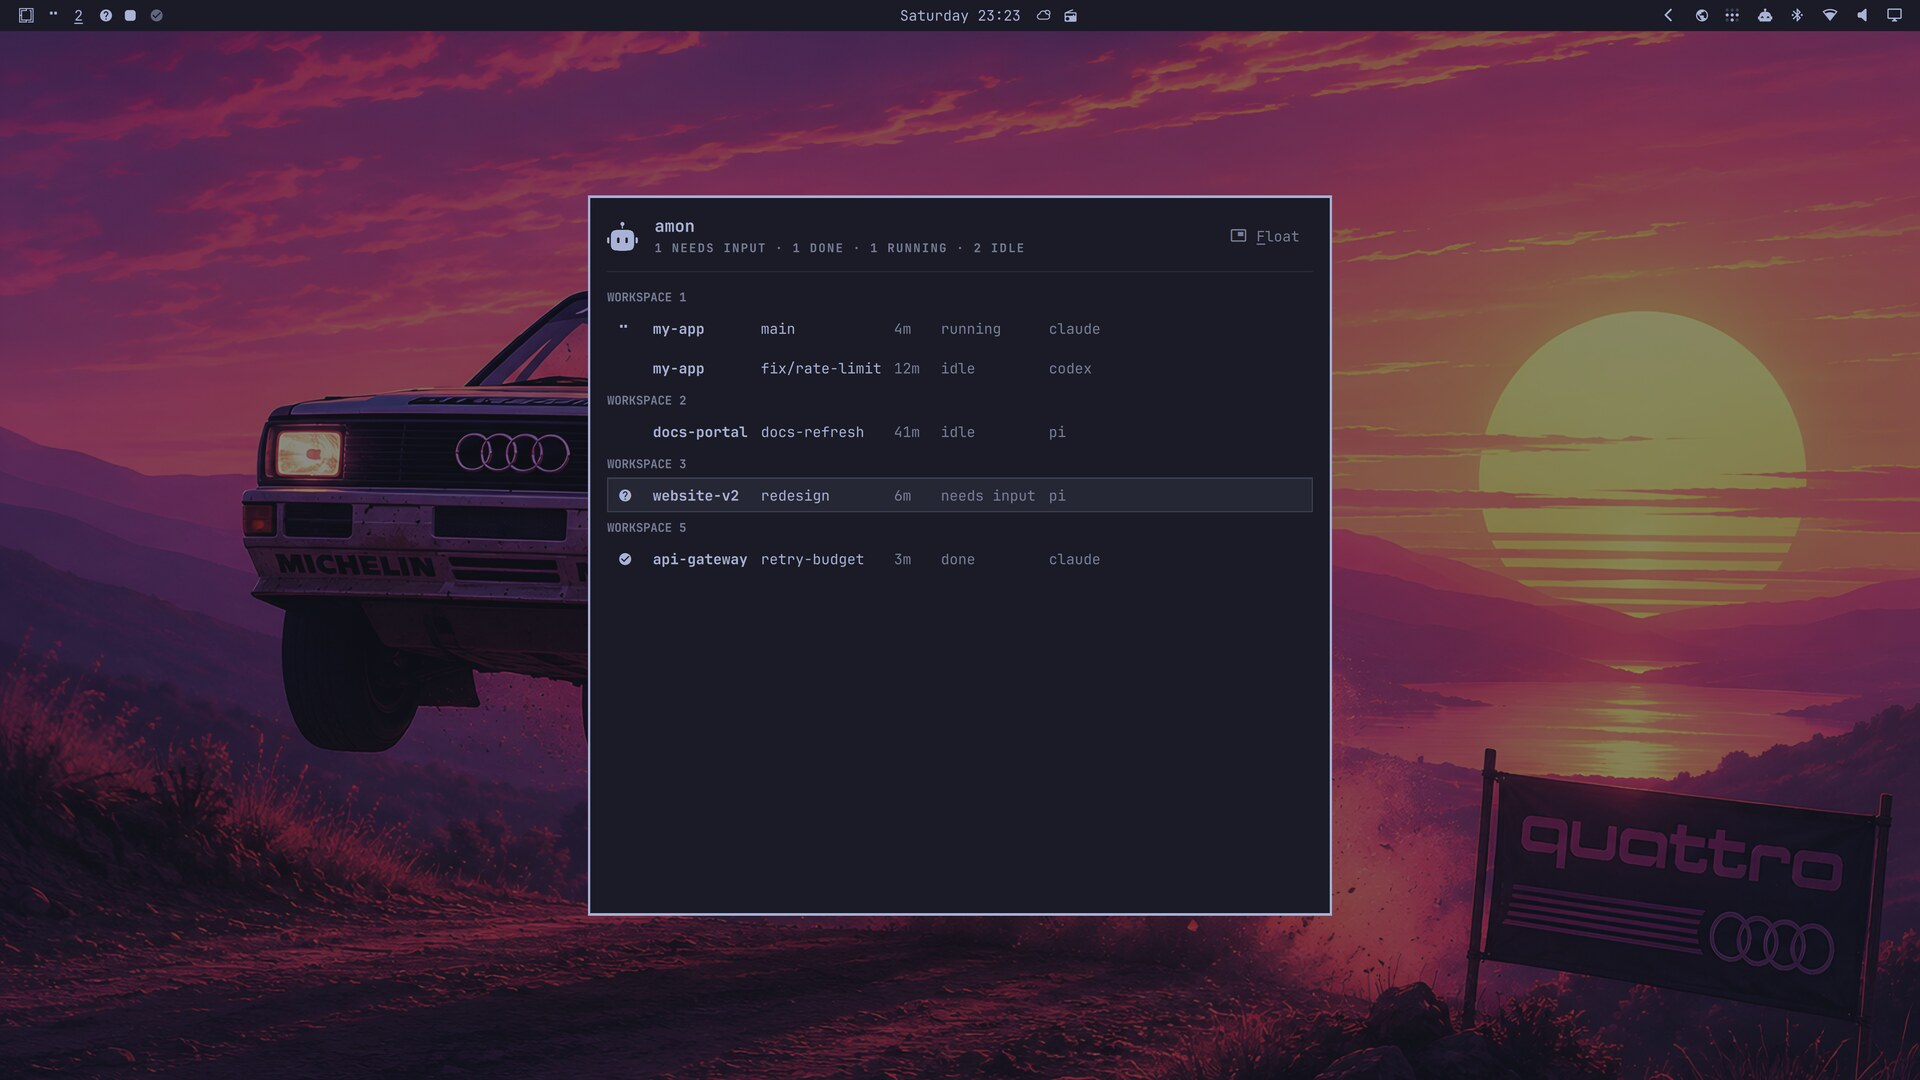
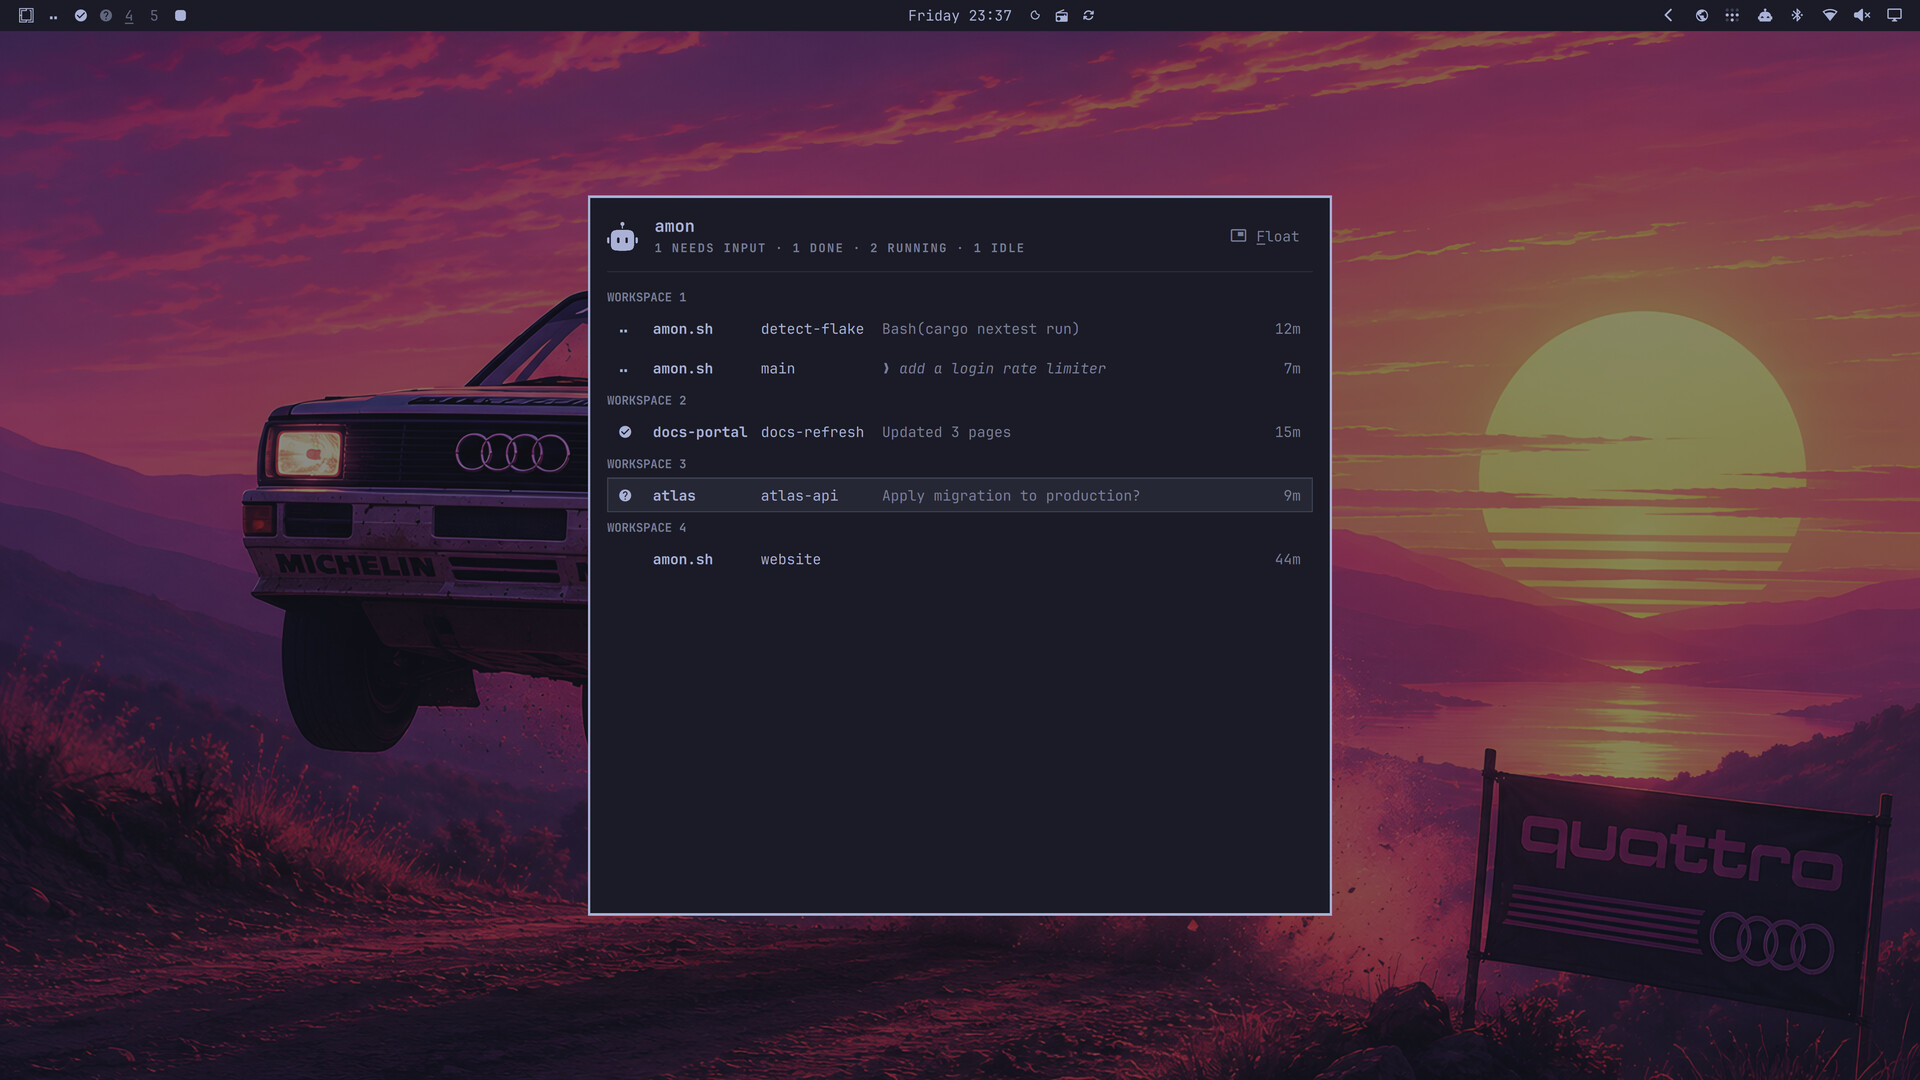
The website shows the activity the panel now surfaces
The panel gained a column for what each agent is doing (ADR-0020/0022), and
the site was still drawing the old one — glyph, project, branch, age, state,
kind. Both surfaces are redrawn to match what ships.

Interactive figures (index.html):
  - The agent-panel mock drops the state-word and kind columns for the elastic
    activity column the real panel now packs: glyph, project, branch, message,
    age. A running row's message carries a band of light that sweeps it (CSS
    background-clip shimmer, ~900ms over 2900ms, honouring prefers-reduced-
    motion); a prompt is your words, so it leans italic behind the harness's
    own marker; a blocked row says what it waits for; idle is blank.
  - The `amon status` snippet gains the same trailing activity column, the two
    surfaces kept in step down to the marker.

Screenshots (website/shots, docs/tokyo-night.jpg):
  - Every themed panel shot and the floating and top-bar shots re-taken against
    a stage set that exercises the new column — a narration mid-run, a prompt,
    a finished agent's last line, a blocker's question. Same five staged agents
    as the mock, so the picture and the page agree.

diff --git a/website/index.html b/website/index.html
@@ -438,14 +438,14 @@
 
   /* One grid shared by every row, so the columns line up down the list the way
      they do in the real panel: the glyph, where the agent is working, the
-     branch, how long, the state in words, and last the kind of agent.
+     branch, what it is doing, and last how long it has been at it.
 
-     Every width is fixed. Each row is its own grid here, so a column that sized
-     itself to its own content would start somewhere different on every line -
-     and a grid whose columns move per row is not one. The leftover falls after
-     the last column rather than pooling in the middle, which is where the real
-     panel leaves it: it packs the columns from the left and stops. */
-  .panel-row{display:grid; grid-template-columns:18px 4rem 7.75rem 2rem 5.5rem 4rem;
+     Every fixed column keeps its width; the activity column takes the slack and
+     elides into it, which is why the age still lands at the edge and a long
+     message costs its own tail rather than a column that identifies the row.
+     Each row is its own grid, so the fixed widths are what keep a column
+     starting in the same place on every line. */
+  .panel-row{display:grid; grid-template-columns:18px 6rem 8.25rem minmax(0,1fr) 2.25rem;
              align-items:center; gap:0 10px; border-radius:6px}
   .panel-row.is-cursor{background:color-mix(in oklab, var(--ink) 7%, transparent)}
 
@@ -495,23 +495,58 @@
      full ink - but not the weight: two bold columns compete and neither leads. */
   .panel-cell.is-branch{color:var(--ink)}
   .panel-cell.is-where,.panel-cell.is-branch,
-  .panel-cell.is-state,.panel-cell.is-kind{overflow:hidden;
-                            text-overflow:ellipsis; white-space:nowrap}
+  .panel-cell.is-activity{overflow:hidden;
+                          text-overflow:ellipsis; white-space:nowrap}
 
+  /* What the agent says it is doing, in the harness's own words - "Reading 5
+     files", "Bash(cargo nextest run)", the opening line of a reply. Never a
+     phrase amon composed: the glyph beside it already carries the state, so a
+     column that said "Working..." would only repeat it. Dim, a little air
+     before it, and it takes the slack the fixed columns leave. */
+  .panel-cell.is-activity{color:var(--muted); padding-left:6px}
+  /* A prompt is your words, not the agent's, so it wears the harness's own
+     marker and leans into italic - the same two cues the real panel draws. */
+  .panel-cell.is-activity.is-prompt{font-style:italic}
+  .panel-cell.is-activity.is-prompt::before{content:"\276F\A0"; font-style:normal}
 
-  /* Narrow: the columns give way from the right, in the order the real panel
-     drops them. The kind of agent goes first - on a machine running one kind it
-     writes the same word down every line, and it is worth its width only while
-     there is width to spare. The state goes next, because the glyph beside the
-     project already carries it. What survives still says where the agent is,
-     which line of work it is on, and how long it has been there. */
-  @media (max-width:640px){
-    .panel-row{grid-template-columns:18px 4rem 7.75rem 2rem 5.5rem}
-    .panel-cell.is-kind{display:none}
+  /* The age sits at the pane's edge, where a column of short right-aligned
+     values reads down as one. */
+  .panel-cell.is-age{text-align:right}
+
+  /* A band of light crossing the message while an agent is working. Nothing
+     moves - only the colour travels, the row's own two inks, dim lifting to
+     full and settling back - which is what keeps it readable rather than
+     distracting. The band sweeps across quickly and then the row rests, the
+     900ms-over-2900ms the real panel animates at. The text is painted through
+     the gradient, so a narrow band of ink rides a dim line. */
+  .panel-cell.is-activity.is-working{
+    color:transparent;
+    /* Three box-widths wide, so the box is always fully painted - a narrow ink
+       peak rides a dim field, and at the ends of the sweep the peak is off the
+       visible window and the whole message rests dim. */
+    background-image:linear-gradient(100deg,
+      var(--muted) 0%, var(--muted) 47%, var(--ink) 50%, var(--muted) 53%, var(--muted) 100%);
+    background-size:300% 100%; background-repeat:no-repeat;
+    -webkit-background-clip:text; background-clip:text;
+    animation:panel-shimmer 2900ms linear infinite}
+  @keyframes panel-shimmer{
+    0%{background-position:0% 0}
+    31%{background-position:100% 0}
+    100%{background-position:100% 0} }
+  /* A shimmer is motion; when motion is unwelcome the message simply rests dim,
+     the same as any settled row. */
+  @media (prefers-reduced-motion: reduce){
+    .panel-cell.is-activity.is-working{animation:none; color:var(--muted);
+      background-image:none; -webkit-background-clip:border-box; background-clip:border-box}
   }
-  @media (max-width:460px){
-    .panel-row{grid-template-columns:18px 4rem minmax(0,1fr) 2rem}
-    .panel-cell.is-state{display:none}
+
+  /* Narrow: the branch gives way first, the one column the real panel drops -
+     every other either identifies the row or, like the message, gives way by
+     shrinking. What survives still says where the agent is and what it is
+     doing. */
+  @media (max-width:600px){
+    .panel-row{grid-template-columns:18px 5rem minmax(0,1fr) 2.25rem}
+    .panel-cell.is-branch{display:none}
   }
 
   /* ---- the install block ------------------------------------------- */
@@ -957,14 +992,16 @@
       The agent panel, replicated. A picture and not a control: nothing here is
       clickable, because nothing here does anything - the cursor follows the
       pointer the way it does in the real panel, and that is the whole of the
-      interaction. The one thing that moves is the spinner, which moves there
-      too.
+      interaction. Two things move, and both move there too: the spinner beside
+      a running agent, and the band of light that crosses what it is doing.
 
-      Three of the four rows say amon.sh, and that is the layout making its
-      point rather than a mistake in the mock: the last of them is an agent in
-      a worktree at ~/.cache/worktrees/site, which belongs to the same
-      repository, and the branch beside it is the only thing telling the three
-      apart.
+      Three of the five rows say amon.sh, and that is the layout making its
+      point rather than a mistake in the mock: they are three checkouts of one
+      repository, and the branch beside each is the only thing telling them
+      apart. The message is what each agent last said it was doing - a running
+      row narrates and its light travels; a row waiting on you says what it is
+      waiting for; the top row is showing the prompt it was given, in your
+      words, so it wears the harness's own marker and leans italic.
     -->
     <figure class="panel">
       <div class="panel-card">
@@ -983,7 +1020,7 @@
           </svg>
           <span class="panel-name">
             <b>amon</b>
-            <span class="panel-counts">1 NEEDS INPUT &middot; 1 DONE &middot; 1 RUNNING &middot; 1 IDLE</span>
+            <span class="panel-counts">1 NEEDS INPUT &middot; 1 DONE &middot; 2 RUNNING &middot; 1 IDLE</span>
           </span>
         </div>
 
@@ -994,35 +1031,39 @@
             <span class="panel-cell is-glyph"><svg class="panel-glyph" viewBox="0 0 24 24" aria-hidden="true"><circle class="panel-dot tl" cx="8.7" cy="9.45" r="2.35" fill="currentColor"/><circle class="panel-dot tr" cx="15.3" cy="9.45" r="2.35" fill="currentColor"/><circle class="panel-dot bl" cx="8.7" cy="14.55" r="2.35" fill="currentColor"/><circle class="panel-dot br" cx="15.3" cy="14.55" r="2.35" fill="currentColor"/></svg></span>
             <span class="panel-cell is-where">amon.sh</span>
             <span class="panel-cell is-branch">main</span>
+            <span class="panel-cell is-activity is-working is-prompt">add a login rate limiter</span>
             <span class="panel-cell is-age">4m</span>
-            <span class="panel-cell is-state">running</span>
-            <span class="panel-cell is-kind">claude</span>
           </div>
           <div class="panel-row">
-            <span class="panel-cell is-glyph"><svg class="panel-glyph" viewBox="0 0 24 24" aria-hidden="true"><use href="#gl-done"/></svg></span>
+            <span class="panel-cell is-glyph"><svg class="panel-glyph" viewBox="0 0 24 24" aria-hidden="true"><circle class="panel-dot tl" cx="8.7" cy="9.45" r="2.35" fill="currentColor"/><circle class="panel-dot tr" cx="15.3" cy="9.45" r="2.35" fill="currentColor"/><circle class="panel-dot bl" cx="8.7" cy="14.55" r="2.35" fill="currentColor"/><circle class="panel-dot br" cx="15.3" cy="14.55" r="2.35" fill="currentColor"/></svg></span>
             <span class="panel-cell is-where">amon.sh</span>
-            <span class="panel-cell is-branch">fix/detect-flake</span>
-            <span class="panel-cell is-age">2m</span>
-            <span class="panel-cell is-state">done</span>
-            <span class="panel-cell is-kind">codex</span>
+            <span class="panel-cell is-branch">detect-flake</span>
+            <span class="panel-cell is-activity is-working">Bash(cargo nextest run)</span>
+            <span class="panel-cell is-age">9m</span>
+          </div>
+          <div class="panel-group" style="grid-column:1/-1">WORKSPACE 2</div>
+          <div class="panel-row">
+            <span class="panel-cell is-glyph"><svg class="panel-glyph" viewBox="0 0 24 24" aria-hidden="true"><use href="#gl-done"/></svg></span>
+            <span class="panel-cell is-where">docs-portal</span>
+            <span class="panel-cell is-branch">docs-refresh</span>
+            <span class="panel-cell is-activity">Updated 3 pages</span>
+            <span class="panel-cell is-age">12m</span>
           </div>
           <div class="panel-group" style="grid-column:1/-1">WORKSPACE 3</div>
           <div class="panel-row">
             <span class="panel-cell is-glyph"><svg class="panel-glyph" viewBox="0 0 24 24" aria-hidden="true"><use href="#gl-blocked"/></svg></span>
             <span class="panel-cell is-where">atlas</span>
             <span class="panel-cell is-branch">atlas-api</span>
+            <span class="panel-cell is-activity">Apply migration to production?</span>
             <span class="panel-cell is-age">6m</span>
-            <span class="panel-cell is-state">needs input</span>
-            <span class="panel-cell is-kind">pi</span>
           </div>
           <div class="panel-group" style="grid-column:1/-1">WORKSPACE 4</div>
           <div class="panel-row">
             <span class="panel-cell is-glyph"></span>
             <span class="panel-cell is-where">amon.sh</span>
             <span class="panel-cell is-branch">website</span>
+            <span class="panel-cell is-activity"></span>
             <span class="panel-cell is-age">41m</span>
-            <span class="panel-cell is-state">idle</span>
-            <span class="panel-cell is-kind">opencode</span>
           </div>
       </div>
 
@@ -1042,22 +1083,24 @@
     </header>
 
     <!--
-      The same four agents as the panel above, answered in the terminal - the
+      The same five agents as the panel above, answered in the terminal - the
       same fields in the same order, so the two surfaces cannot drift - and
       sorted the way everything in amon sorts: blocked first, then finished-
       but-unseen (which the CLI prints as idle; only its place in the order
-      gives it away), then working. The workspace leads here where the panel
-      makes it a heading, and the full path stands in for the project where an
-      agent is not in a repository, because this output gets piped. The
-      trailing focus command is typed and not yet run, the way the panel's
-      cursor rests on a row.
+      gives it away), then working. The message trails each row exactly as it
+      does in the panel, a prompt wearing the same marker; the workspace leads
+      here where the panel makes it a heading, and the full path stands in for
+      the project where an agent is not in a repository, because this output
+      gets piped. The trailing focus command is typed and not yet run, the way
+      the panel's cursor rests on a row.
     -->
     <figure class="snippet">
       <pre><code><span class="t-p">~ &#10095;</span> <span class="t-in">amon status</span>
-<span class="t-o">3  atlas    atlas-api            6m  blocked   pi
-1  amon.sh  fix/detect-flake     2m  idle      codex
-1  amon.sh  main                 4m  working   claude
-4  amon.sh  website             41m  idle      opencode</span>
+<span class="t-o">3  atlas        atlas-api        6m  blocked   pi        Apply migration to production?
+2  docs-portal  docs-refresh    12m  idle      pi        Updated 3 pages
+1  amon.sh      main             4m  working   claude    &#10095; add a login rate limiter
+1  amon.sh      detect-flake     9m  working   codex     Bash(cargo nextest run)
+4  amon.sh      website         41m  idle      opencode</span>
 <span class="t-p">~ &#10095;</span> <span class="t-in">amon focus 3</span></code></pre>
     </figure>
 
